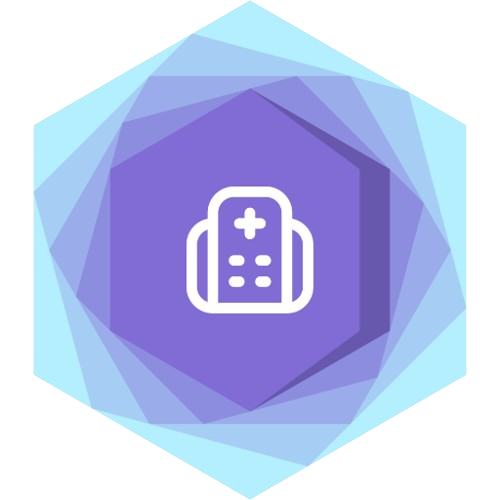
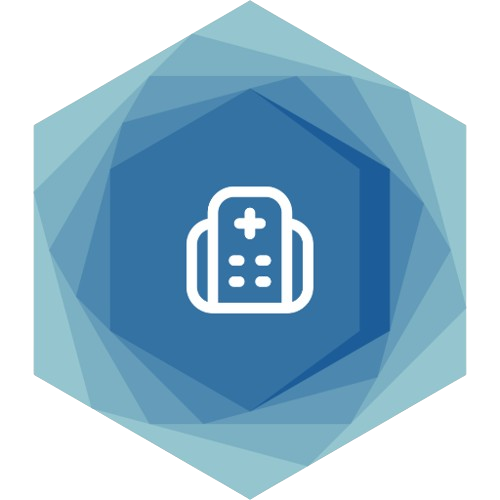
Entrega Sprint 1 - Correção de erros e cores

diff --git a/assets/css/styles.css b/assets/css/styles.css
@@ -3,7 +3,8 @@ body {
     padding: 0;
     height: 500vh;
     /* height: 100%; */
-    background: linear-gradient(to bottom, #e6f0f1 10%, #cee8ee 30%, #FFFFFF 60%);
+    /* background: linear-gradient(to bottom, #e6f0f1 10%, #cee8ee 30%, #FFFFFF 60%); */
+    background: linear-gradient(to bottom, #e6f0f1 10%, #95C6CF 30%, #FFFFFF 60%);
 }
 header {
     position: fixed;
@@ -25,7 +26,7 @@ main {
     margin-top: 10px;
 }
 h1 {
-    color:#86daec;
+    color: #3F828E;
     font-family: 'Montserrat', sans-serif;
 }
 h2 {
@@ -51,7 +52,7 @@ p {
 button {
     font-family: 'Nunito', sans-serif;
     color: #fff;
-    background-color: #67d1e9;
+    background-color: #3F828E;;
     right: 5px;
     margin: 6px 0px;
     align-self: center;
@@ -59,7 +60,7 @@ button {
     border-radius: 12px;
 }
 button:hover {
-    background-color: #7cd9eeea;
+    background-color: #63A0AB;
 }
 .btn-enter {
     font-size: 1.3em;
@@ -96,7 +97,7 @@ body.scrolled .form-header {
     text-decoration: underline;
 }
 .color-logo {
-    color: #67d1e9;
+    color: #3F828E;
 }
 .flex-free-test {
     display: flex;
@@ -159,7 +160,7 @@ input:focus {
     margin: 0px 30px;
 }
 .txt-solutions {
-    color: #67d1e9;
+    color: #1C5D99;
     margin: 0px;
 }
 .form-grid {
@@ -212,6 +213,11 @@ input:focus {
     .form-grid {
         grid-template-columns: repeat(3, 1fr);
         gap: 0.5rem;
+        align-items: baseline;
+    }
+
+    .txt-grid {
+        text-align: center;
     }
 }
 

diff --git a/index.html b/index.html
@@ -70,14 +70,12 @@
                     <span class="txt-grid">Cadastro de clínicas</span>
                 </div>
                 <div class="items-grid">
-                    <div><img src = "images/agenda.png" height="85px" width="85px"></div>
+                    <img src = "images/agenda.png" height="85px" width="85px">
                     <span class="txt-grid">Criar agenda do paciente</span>
                 </div>
                 <div class="items-grid">
-                    <div>
-                        <div><img src = "images/prontuario.png" height="85px" width="85px"></div>
-                    </div>
-                    <div><span class="txt-grid">Prontuário</span></div>
+                    <img src = "images/prontuario.png" height="85px" width="85px">
+                    <span class="txt-grid">Prontuário</span>
                 </div>
             </div>
         </div>
